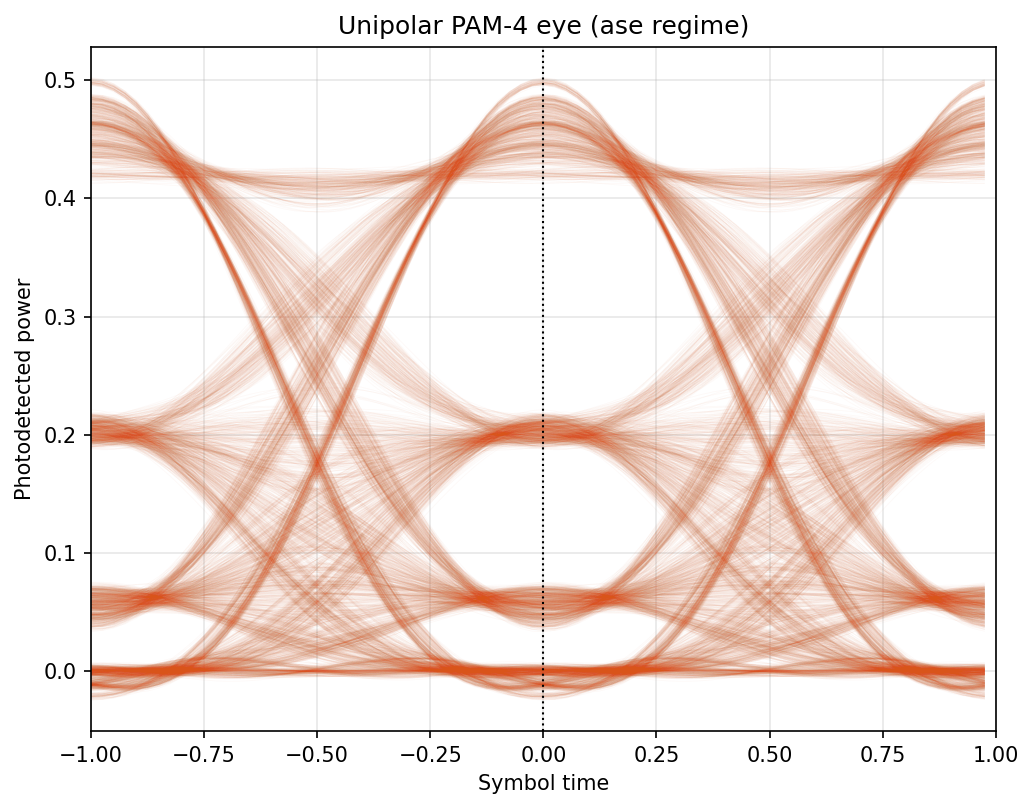
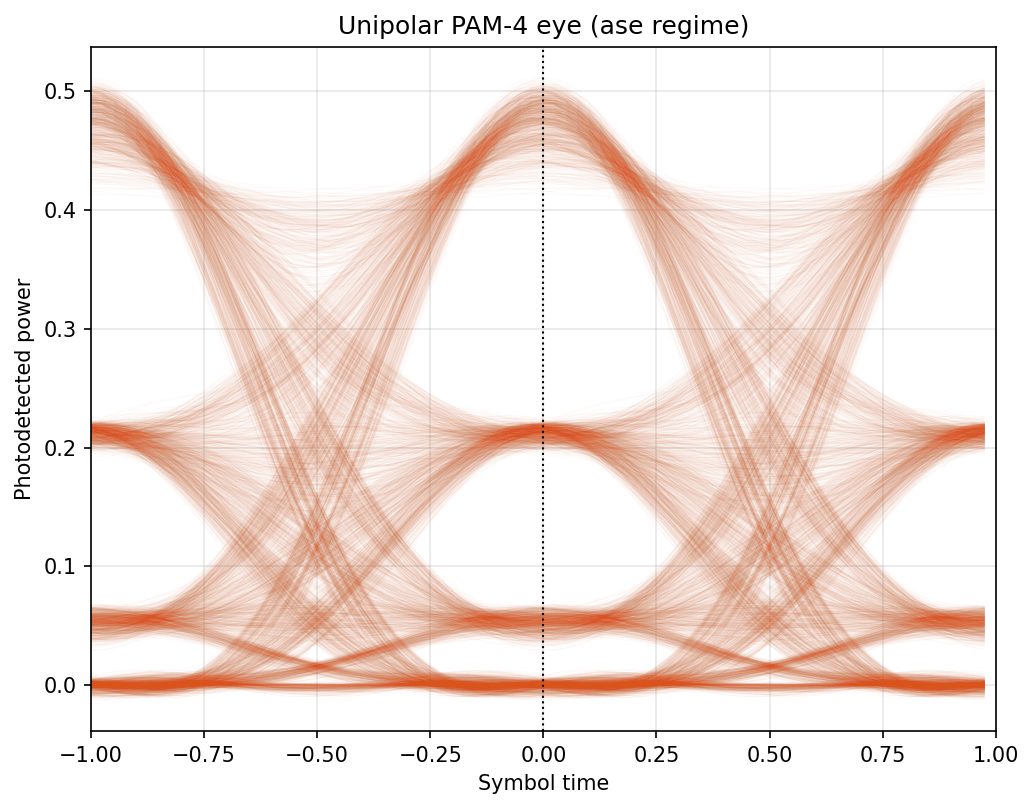
ASE: add optical filter + sqrt companding, rename regime -> "thermal"
The big missing piece was the optical bandpass before the photodiode (every
preamplified receiver has one; Forestieri A.47 assumes it). In baseband (complex
envelope, carrier at DC) it is a complex low-pass on the FIELD, cutoff B_o/2,
before the square law. It suppresses out-of-band ASE that otherwise folds into
baseband through the square-law nonlinearity -- a much bigger effect than a linear
analysis suggests. channel.py applies it after ASE, before detection.

sqrt companding (receiver.py): a DSP sqrt after the ADC (photocurrent -> envelope)
so the FFE decides on amplitude, where ASE beat noise is ~additive (A.34). Auto per
regime: ON for "ase", OFF for "thermal" -- verified by experiment (the dual: thermal
noise is additive in intensity, so sqrt there costs ~0.5-1 dB).

Renamed the noise regime value "electrical" -> "thermal" everywhere (physical source;
described as electrical noise). compare_regimes.py draws the two regimes side by side,
each vs its own bound (A.19 / A.47); pam4_<regime>.pt per regime.

Result (ASE @20 dB): 5.2e-3 floor -> 2.9e-4 (optical filter) -> 5.5e-5 (+ companding).
Now within ~0.5-1 dB of the thermal E2E across the operating range (was ~4000x off),
with a residual ~2.5 dB only at very low BER (the fundamental DD penalty: electrical
matched filter after the square law instead of optical before it).

diff --git a/compare_regimes.py b/compare_regimes.py
@@ -1,0 +1,88 @@
+"""Side-by-side BER waterfalls for the two noise regimes, each against its own theory:
+thermal/electrical (Forestieri A.19) and optical ASE beat noise (A.47). Same link, same
+training recipe, only the noise differs. Trains a per-regime checkpoint if missing.
+
+Goal: make visible how close the E2E autoencoder gets to ITS bound in each regime. The two
+theory curves nearly coincide (A.47 is ~0.5 dB from A.19), so the ASE optimum is essentially
+the thermal one -- any extra distance on the ASE panel is the intensity-domain receiver,
+not the noise.
+"""
+
+import os
+os.environ["KMP_DUPLICATE_LIB_OK"] = "TRUE"
+
+import numpy as np
+import torch
+import matplotlib
+matplotlib.use("Agg")
+import matplotlib.pyplot as plt
+
+from config import Config
+from transmitter import Transmitter
+from receiver import Receiver
+from train import train, evaluate
+from utils import theoretical_ber_unipolar, theoretical_ber_unipolar_ase
+
+NUM_STEPS = 10000
+NUM_EVAL = 400000
+EBN0_DB = np.arange(6, 22, 2.0)
+
+
+def load_or_train(regime, device):
+    """Load results/pam4_<regime>.pt or train it from scratch (and cache it)."""
+    config = Config()
+    config.noise_regime = regime
+    config.minibatch_symbols = 4096
+    config.edge_guard_symbols = 48
+    path = os.path.join("results", f"pam4_{regime}.pt")
+    if os.path.exists(path):
+        print(f"[{regime}] loading {path}")
+        ckpt = torch.load(path, weights_only=False, map_location=device)
+        return config, np.asarray(ckpt["ebn0_db"]), np.asarray(ckpt["measured"])
+    print(f"[{regime}] no checkpoint -> training from scratch")
+    torch.manual_seed(0)
+    np.random.seed(0)
+    transmitter, channel, receiver = train(config, device, num_steps=NUM_STEPS)
+    measured = evaluate(transmitter, channel, receiver, config, EBN0_DB, NUM_EVAL, device)
+    os.makedirs("results", exist_ok=True)
+    torch.save({"transmitter": transmitter.state_dict(), "receiver": receiver.state_dict(),
+                "config": {k: v for k, v in vars(config).items()},
+                "ebn0_db": EBN0_DB, "measured": measured}, path)
+    print(f"[{regime}] saved {path}")
+    return config, EBN0_DB, measured
+
+
+def main():
+    device = "cuda" if torch.cuda.is_available() else "cpu"
+    panels = [
+        ("thermal", theoretical_ber_unipolar, "Thermal (electrical) noise", "Theory A.19"),
+        ("ase", theoretical_ber_unipolar_ase, "Optical ASE beat noise", "Theory A.47"),
+    ]
+    fig, axes = plt.subplots(1, 2, figsize=(14, 5.5), sharey=True)
+    print("\n  Eb/N0       thermal E2E       ASE E2E")
+    rows = {}
+    for ax, (regime, theory_fn, title, theory_label) in zip(axes, panels):
+        config, ebn0_db, measured = load_or_train(regime, device)
+        theory = theory_fn(ebn0_db, config.modulation_order)
+        floor = np.maximum(measured, 1.0 / NUM_EVAL)
+        ax.semilogy(ebn0_db, floor, "-o", linewidth=2, label="E2E autoencoder (DPD + FFE)")
+        ax.semilogy(ebn0_db, theory, "k--", linewidth=1.5, label=theory_label)
+        ax.grid(True, which="both", alpha=0.3)
+        ax.set_xlabel(r"$E_b/N_0$ [dB]")
+        ax.set_ylim(1e-9, 1)
+        ax.set_title(title)
+        ax.legend(loc="lower left")
+        rows[regime] = measured
+    axes[0].set_ylabel("BER")
+    fig.suptitle("E2E unipolar PAM-4 — same link, two noise regimes, each vs its own bound")
+    fig.tight_layout()
+    out_path = os.path.join("results", "pam4_regime_comparison.png")
+    fig.savefig(out_path, dpi=150, bbox_inches="tight")
+    print(f"\nsaved {out_path}")
+
+    for e, m_th, m_ase in zip(EBN0_DB, rows["thermal"], rows["ase"]):
+        print(f"  {e:5.1f}       {m_th:.3e}        {m_ase:.3e}")
+
+
+if __name__ == "__main__":
+    main()

diff --git a/config.py b/config.py
@@ -39,6 +39,12 @@ class Config:
         self.fiber_loss_db_per_km = 0.32        # typical SMF at O-band
         self.fiber_beta2_ps2_per_km = -1.0      # residual chromatic dispersion at 1310 nm
 
+        # ----- optical bandpass before the photodiode (preamplified receiver) -----
+        # Full optical width B_o around the carrier; in baseband it is a complex low-pass of
+        # cutoff B_o/2 on the field (suppresses out-of-band ASE before the square law).
+        # 37 GHz ~= R_s*(1+rolloff), matched to the signal optical band. None disables it.
+        self.optical_filter_bandwidth = 37e9
+
         # ----- photodiode -----
         self.photodiode_bandwidth = 25e9        # post-detection low-pass bandwidth
         self.adc_resolution_bits = 8            # ideal 8-bit quantizer (RX)
@@ -59,6 +65,10 @@ class Config:
         self.ffe_hidden_width = 8               # 16 was tested in the ASE regime: only ~0.5 dB at
                                                 # 20 dB, so the floor is NOT FFE capacity (it is the
                                                 # intensity-domain receiver vs the A.47 envelope bound)
+        self.rx_sqrt_companding = None          # DSP sqrt after the ADC (photocurrent -> envelope):
+                                                # decide on amplitude. None = AUTO: ON for "ase" (beat
+                                                # noise is additive in amplitude) and OFF for "thermal"
+                                                # (noise additive in intensity -> sqrt hurts). True/False forces.
 
         # ----- training -----
         self.num_symbols_train = 200_000        # long sequence (no tiny blocks; edges discarded)
@@ -70,11 +80,11 @@ class Config:
         self.learning_rate = 1e-3
 
         # ----- noise regime -----
-        # "ase"        : amplified-spontaneous-emission (optical) beat noise, added to the
-        #                COMPLEX field before the photodiode -> signal-dependent after the
-        #                square law. Reference: Forestieri eq.(A.47). Electrical noise OFF.
-        # "electrical" : white Gaussian noise added to the photocurrent at the ADC (thermal/
-        #                electronics). Reference: Forestieri eq.(A.19).
+        # "ase"     : amplified-spontaneous-emission (optical) beat noise, added to the COMPLEX
+        #             field before the photodiode -> signal-dependent after the square law.
+        #             Reference: Forestieri eq.(A.47). Thermal/electrical noise OFF.
+        # "thermal" : white Gaussian (thermal/electronics) noise on the photocurrent at the ADC,
+        #             i.e. electrical noise (optical noise OFF). Reference: Forestieri eq.(A.19).
         self.noise_regime = "ase"
 
         # ----- noise sweep for the BER vs Eb/N0 curve -----
@@ -101,6 +111,9 @@ class Config:
         lines.append(f"MZM segments         : {self.num_mzm_segments}")
         lines.append(f"pulse shape          : RRC roll-off {self.rrc_rolloff}")
         lines.append(f"noise regime         : {self.noise_regime}")
+        lines.append(f"optical filter Bo    : {self.optical_filter_bandwidth/1e9:.0f} GHz" if self.optical_filter_bandwidth else "optical filter Bo    : none")
+        companding = self.rx_sqrt_companding if self.rx_sqrt_companding is not None else (self.noise_regime == "ase")
+        lines.append(f"rx sqrt companding   : {companding}")
         return "\n".join(lines)
 
 

diff --git a/channel.py b/channel.py
@@ -42,7 +42,7 @@ def lowpass_fir(cutoff_hz, sample_rate, num_taps):
 
 
 class OpticalChannel(nn.Module):
-    def __init__(self, config, segment_filter_taps=65, pd_filter_taps=65):
+    def __init__(self, config, segment_filter_taps=65, pd_filter_taps=65, optical_filter_taps=65):
         super().__init__()
         self.num_segments = config.num_mzm_segments
         self.vpi = config.mzm_vpi_volt
@@ -71,6 +71,20 @@ class OpticalChannel(nn.Module):
         beta2_s2_per_m = config.fiber_beta2_ps2_per_km * 1e-27
         fiber_length_m = config.fiber_length_km * 1e3
         self.dispersion_coeff = 0.5 * beta2_s2_per_m * fiber_length_m   # [s^2], signed
+
+        # optical bandpass before the PD (preamplified receiver). In baseband (complex envelope,
+        # carrier at DC) the optical bandpass of full width B_o becomes a COMPLEX low-pass of
+        # cutoff B_o/2 on the field -> the same real FIR applied to each quadrature. It suppresses
+        # out-of-band ASE before the square law (cuts mainly the ASE-ASE beat). None = no filter.
+        optical_bw = getattr(config, "optical_filter_bandwidth", None)
+        if optical_bw is not None and optical_bw < config.sim_sample_rate:
+            optical_taps = lowpass_fir(optical_bw / 2, config.sim_sample_rate, optical_filter_taps)
+            optical_weight = torch.tensor(optical_taps).flip(0).view(1, 1, -1)
+            self.optical_filter = nn.Conv1d(1, 1, kernel_size=len(optical_taps),
+                                            padding=len(optical_taps) // 2, bias=False)
+            self.optical_filter.weight = nn.Parameter(optical_weight)
+        else:
+            self.optical_filter = None
 
         # photodiode low-pass FIR (single channel: the photocurrent)
         pd_taps = lowpass_fir(config.photodiode_bandwidth, config.sim_sample_rate, pd_filter_taps)
@@ -132,6 +146,10 @@ class OpticalChannel(nn.Module):
         # ASE beat noise: added to the FIELD (before the square law) -> signal-dependent
         if ase_ebn0_db is not None:
             field_real, field_imag = self._add_ase(field_real, field_imag, ase_ebn0_db)
+        # optical bandpass (baseband complex low-pass on the field), before the square law
+        if self.optical_filter is not None:
+            field_real = self.optical_filter(field_real)
+            field_imag = self.optical_filter(field_imag)
 
         photocurrent = field_real.pow(2) + field_imag.pow(2)      # square-law detection
         photocurrent = self.pd_filter(photocurrent)               # photodiode bandwidth

diff --git a/receiver.py b/receiver.py
@@ -23,6 +23,14 @@ class Receiver(nn.Module):
         self.samples_per_symbol_sim = config.samples_per_symbol_sim
         self.samples_per_symbol_rx = config.samples_per_symbol_rx
         self.decimation = self.samples_per_symbol_sim // self.samples_per_symbol_rx
+        # sqrt companding: a static DSP nonlinearity (photocurrent -> field amplitude/envelope)
+        # so the matched filter and FFE work where the ASE beat noise is ~additive and level-
+        # independent (Forestieri A.34). Inverts the PD square law. None -> auto per regime:
+        # ON for "ase", OFF for "thermal" (where the noise is already additive in intensity).
+        companding = getattr(config, "rx_sqrt_companding", None)
+        if companding is None:
+            companding = (config.noise_regime == "ase")
+        self.sqrt_companding = companding
 
         matched_taps = root_raised_cosine(config.rrc_rolloff, config.rrc_span_symbols, self.samples_per_symbol_sim)
         self.register_buffer("matched", torch.tensor(matched_taps, dtype=torch.float32).view(1, 1, -1))
@@ -36,6 +44,8 @@ class Receiver(nn.Module):
     def forward(self, photocurrent):
         """photocurrent: (num_samples,) at the sim rate -> bit probabilities: (num_bits, num_symbols)."""
         x = photocurrent.view(1, 1, -1)
+        if self.sqrt_companding:
+            x = torch.sqrt(F.relu(x) + 1e-6)                                 # intensity -> envelope (in DSP)
         x = F.conv1d(x, self.matched, padding=self.matched.shape[-1] // 2)   # matched filter
         x = x[:, :, ::self.decimation]                                       # decimate to ADC rate
         # sliding window of `window_size` samples, stride = samples_per_symbol_rx -> one window per symbol

diff --git a/train.py b/train.py
@@ -36,8 +36,8 @@ def random_bits(num_bits, num_symbols, device):
 def equispacing_loss(photocurrent, symbols, samples_per_symbol, guard, noise_regime):
     """MSE that pins the decision-instant intensity to 4 clean, Gray-ordered levels.
     The TARGET spacing depends on the noise regime (Forestieri A.2, Fig. A.6):
-      electrical -> equispaced INTENSITY  (intensity proportional to rank      -> [0,1,2,3])
-      ase        -> equispaced AMPLITUDE  (intensity proportional to rank**2   -> [0,1,4,9])
+      thermal -> equispaced INTENSITY  (intensity proportional to rank      -> [0,1,2,3])
+      ase     -> equispaced AMPLITUDE  (intensity proportional to rank**2   -> [0,1,4,9])
     Both measured and target are z-scored, so only the SHAPE of the spacing is pinned."""
     gray_level = torch.tensor(GRAY_LEVEL, device=photocurrent.device)
     if noise_regime == "ase":
@@ -52,7 +52,7 @@ def equispacing_loss(photocurrent, symbols, samples_per_symbol, guard, noise_reg
 
 def link_photocurrent(transmitter, channel, bits, ebn0_db, config):
     """Photocurrent with noise injected per the configured regime: ASE on the optical field
-    (inside the channel) or electrical AWGN on the photocurrent (at the ADC)."""
+    (inside the channel) or thermal/electrical AWGN on the photocurrent (at the ADC)."""
     drive = transmitter(bits)
     if config.noise_regime == "ase":
         return channel(drive, ase_ebn0_db=ebn0_db)

diff --git a/main.py b/main.py
@@ -3,7 +3,7 @@ deliverables — a clean eye diagram and a BER vs Eb/N0 waterfall against theory
 
 The x-axis is Eb/N0 (energy per bit / one-sided N0) — the convention-free figure of
 merit, with no bandwidth choice to argue about. The theoretical reference is chosen by
-config.noise_regime: Forestieri eq.(A.19) for electrical noise, eq.(A.47) for the
+config.noise_regime: Forestieri eq.(A.19) for thermal/electrical noise, eq.(A.47) for the
 ASE-dominant regime (signal-spontaneous beat noise). Both are BER(Eb/N0) directly.
 """
 
@@ -70,7 +70,7 @@ def main():
         theory_label = "Theory unipolar PAM-4 (ASE, A.47)"
     else:
         theory = theoretical_ber_unipolar(ebn0_db, config.modulation_order)
-        theory_label = "Theory unipolar PAM-4 (electrical, A.19)"
+        theory_label = "Theory unipolar PAM-4 (thermal, A.19)"
 
     # ----- figure: eye (left) + waterfall (right) -----
     fig, axes = plt.subplots(1, 2, figsize=(14, 5.5))

diff --git a/utils.py b/utils.py
@@ -35,7 +35,7 @@ def theoretical_ber_unipolar_ase(ebn0_db, modulation_order):
     AMPLITUDE levels (A_m = (m-1)A), optimum thresholds. The decision variable is the field
     amplitude (Ricean), so a Rayleigh-tail exp() term replaces one of the Gaussian tails:
         BER = 1/(M*log2M) * [ exp(-(c/2)*Eb/N0) + (2M-3)*Q(sqrt(c*Eb/N0)) ],
-        c = 3*log2M / ((M-1)(2M-1))   (same Q-argument as the electrical regime, A.19).
+        c = 3*log2M / ((M-1)(2M-1))   (same Q-argument as the thermal regime, A.19).
     Eb/N0 here is the photons-per-bit at the preamplifier input.
     """
     ebn0 = 10 ** (np.asarray(ebn0_db) / 10)
